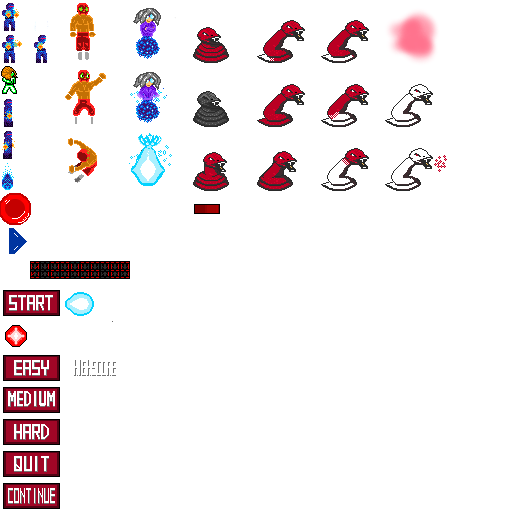
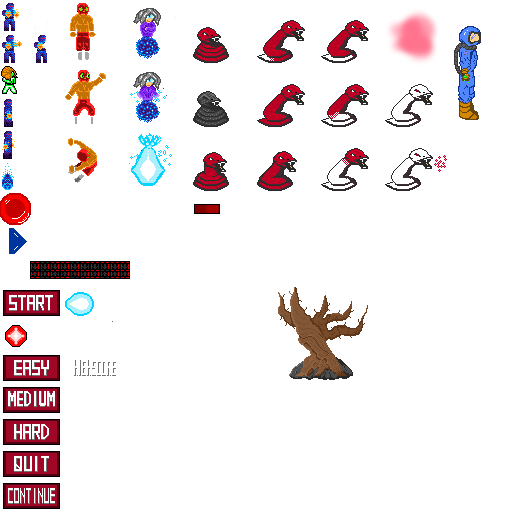
Se agrego un nuevo sprite para el personaje principal y el codigo se modifico para cargarlo.

Changed region(s): [[0.5312, 0.5625, 0.7188, 0.75], [0.875, 0.0312, 0.9375, 0.25]]

diff --git a/app/src/main/java/com/jgame/elements/MainCharacter.java b/app/src/main/java/com/jgame/elements/MainCharacter.java
@@ -63,7 +63,7 @@ public class MainCharacter extends GameCharacter {
         public abstract boolean isCancellable();
     }
 
-    public final static TextureData IDLE_TEXTURE = TextureDrawer.genTextureData(1,3,16);
+    public final static TextureData IDLE_TEXTURE = new TextureData(0.875f,0f,1,0.25f);
     public final static TextureData RECOVERY_SUCCESS_1 = TextureDrawer.genTextureData(2,1,16);
     public final static TextureData RECOVERY_SUCCESS_2 = TextureDrawer.genTextureData(2,2,16);
     public final static TextureData INIT_MOV_A = TextureDrawer.genTextureData(1,1,16);

diff --git a/app/src/main/java/com/jgame/game/GameRenderer.java b/app/src/main/java/com/jgame/game/GameRenderer.java
@@ -28,7 +28,7 @@ public class GameRenderer implements Renderer {
     private final static int SCORE_SIZE_Y = 20;
     private final static int PAUSE_X_SIZE = 100;
     private final static int PAUSE_Y_SIZE = 70;
-    private final static boolean RENDER_HITBOXES = true;
+    private final static boolean RENDER_HITBOXES = false;
     public final static ColorData DASHBOARD_COLOR = new ColorData(0.0664f,0.1367f,0.16f,1);
     public final static ColorData NON_HIGHLIGHT = new ColorData(1,1,1,0.45f);
     public final static ColorData BACKGROUND_OVERLAY = new ColorData(1,1,1,0.6f);
